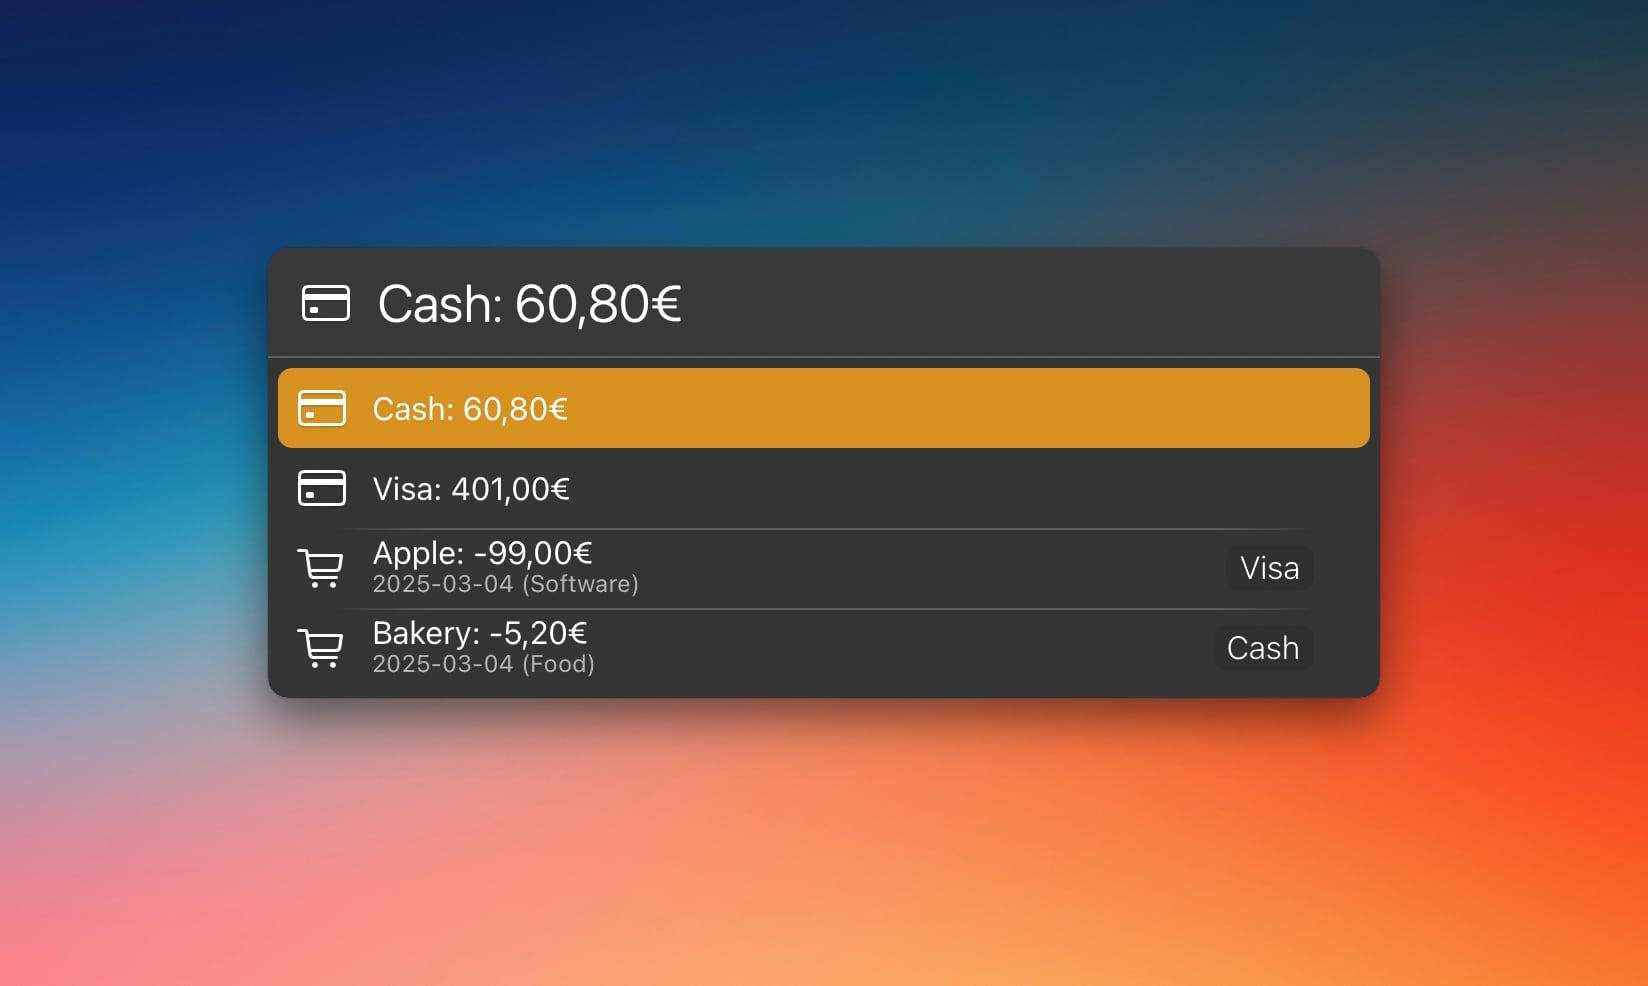
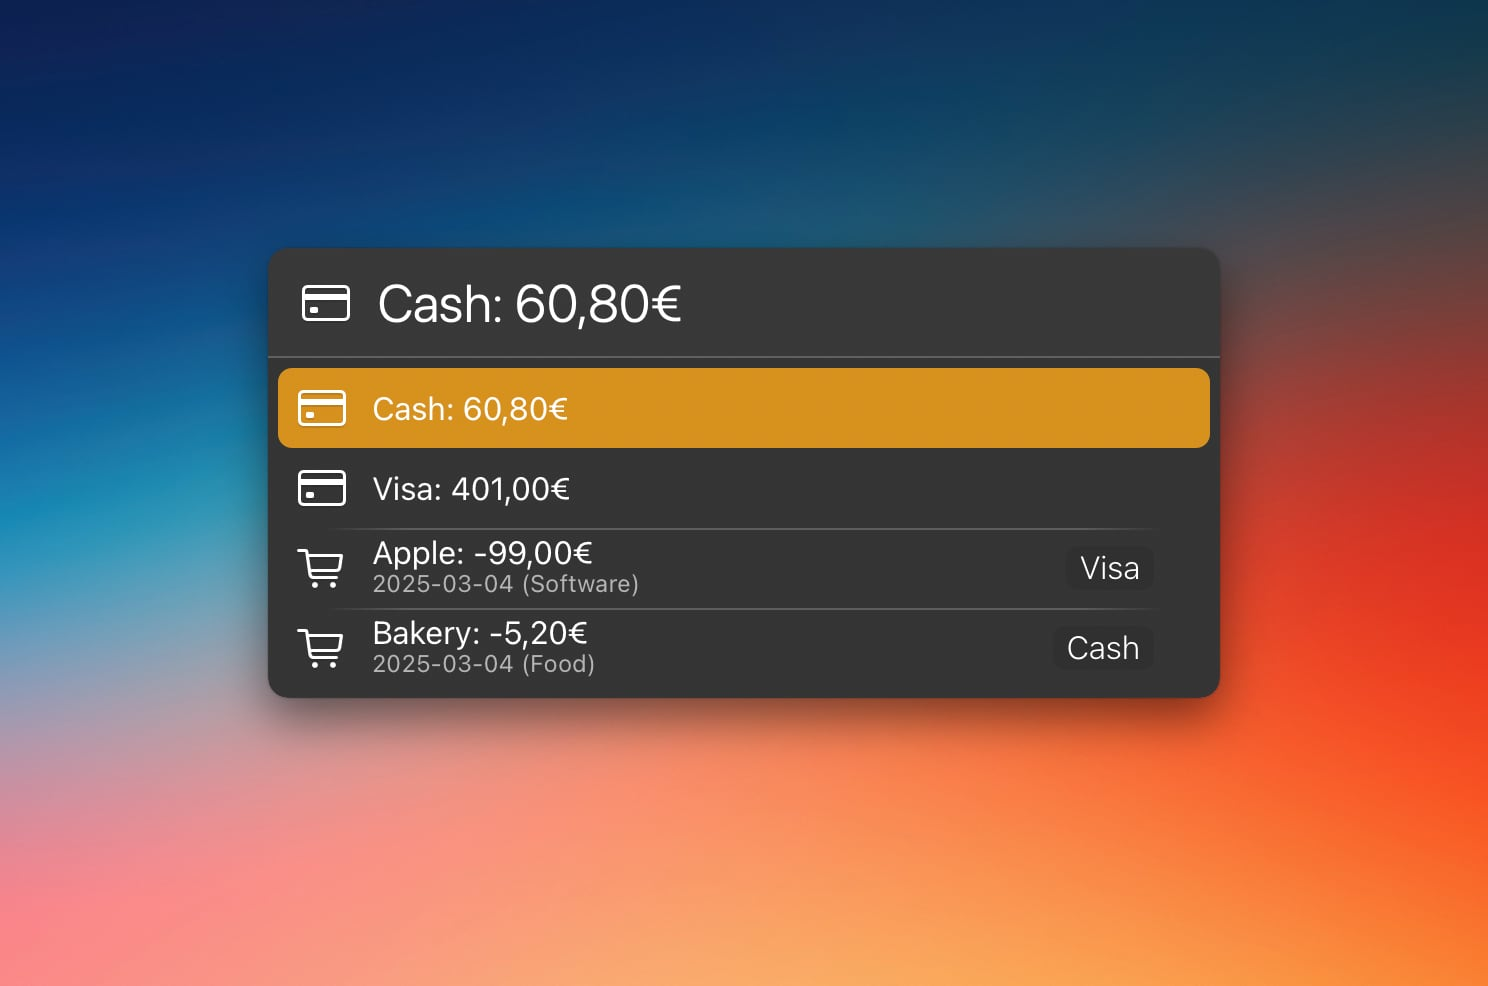
Actual Budget README update

Changed region(s): [[0.1546, 0.2434, 0.4637, 0.7606], [0.711, 0.2738, 0.8656, 0.7302], [0.7419, 0.5477, 0.7728, 0.6085]]

diff --git a/Actual-Budget/README.md b/Actual-Budget/README.md
@@ -2,7 +2,7 @@
 
 *[→ See a list of all my actions here.](https://ptujec.github.io/launchbar)* 
 
-<img src="01.jpg" width="824"/>
+<img src="01.jpg" width="744"/>
 
 [Actual Budget](https://actualbudget.org/) is a free and [open-source](https://github.com/actualbudget/actual) alternative to YNAB. I don't love that the macOS client is an Electron app. But it is pretty good, and well maintained.
 
